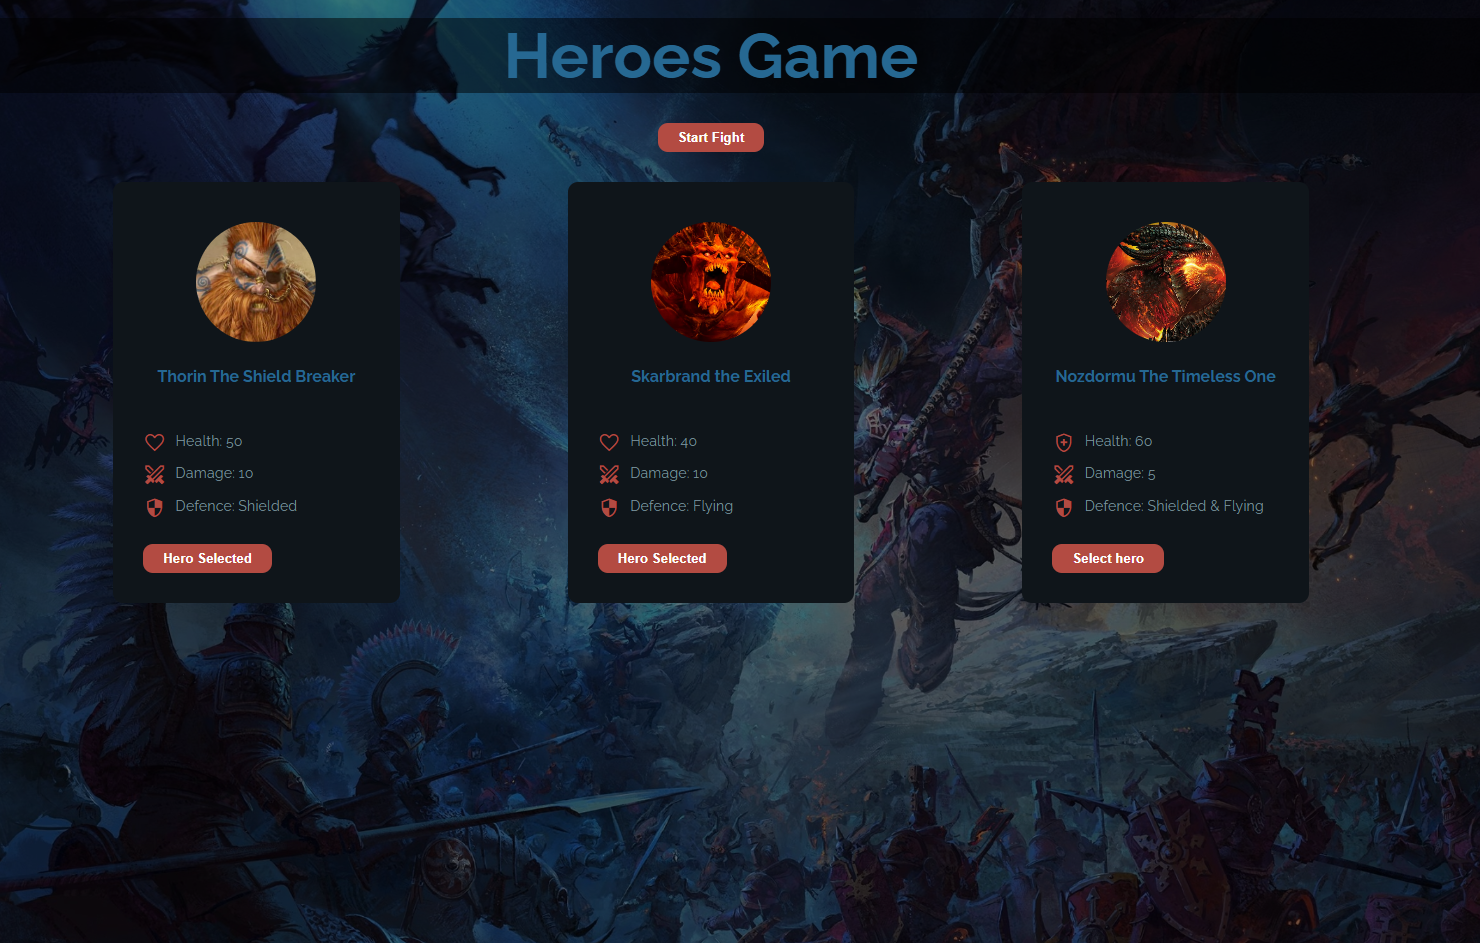
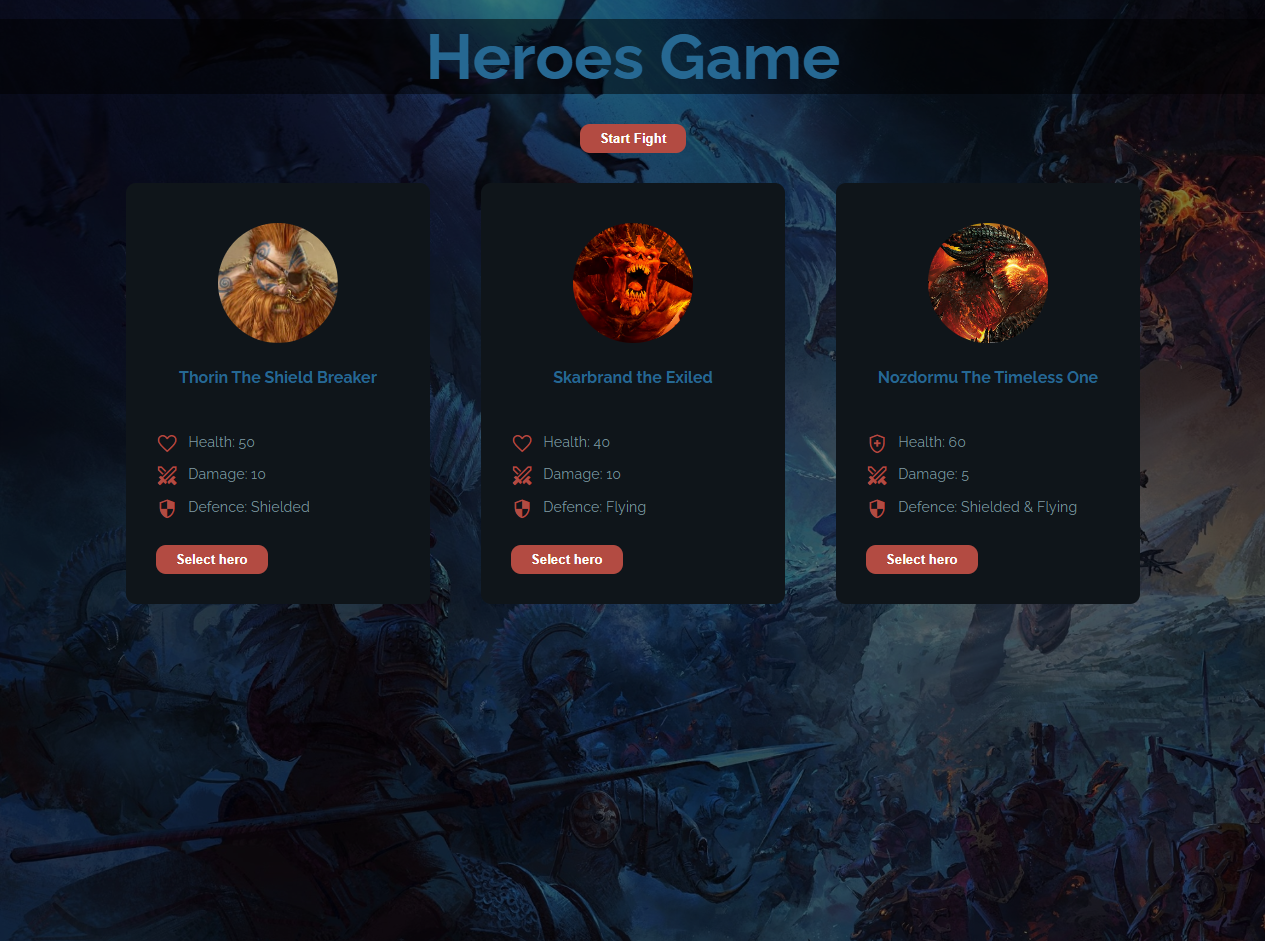
adjusting hero-game img height

diff --git a/src/components/portfolio/portfolio.css b/src/components/portfolio/portfolio.css
@@ -21,6 +21,7 @@
 
 .portfolio__item-image {
     border-radius: 1.5rem;
+    /* aspect-ratio: 4 /3; */
     overflow: hidden;
 }
 

diff --git a/src/index.css b/src/index.css
@@ -120,6 +120,7 @@ a:hover {
 img {
     display: block;
     width: 100%;
+    height: auto;
     object-fit: cover;
 }
 
